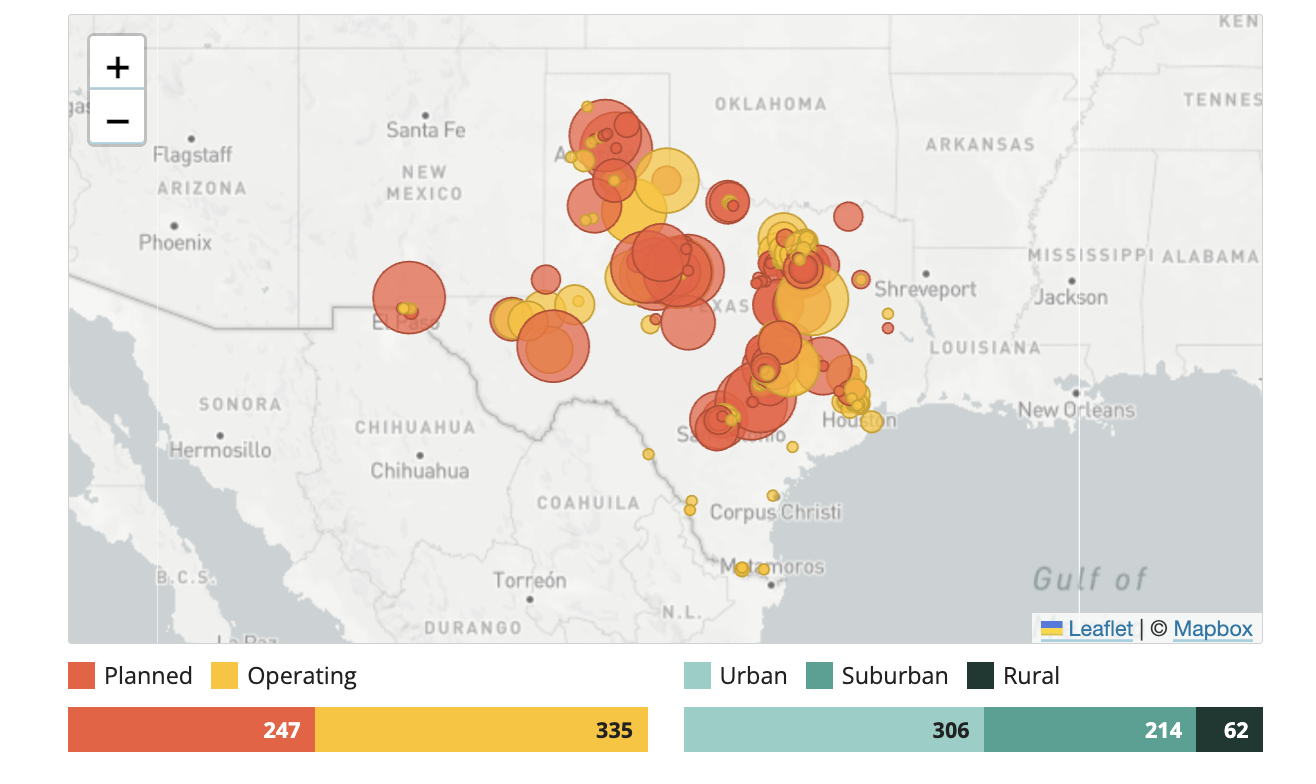
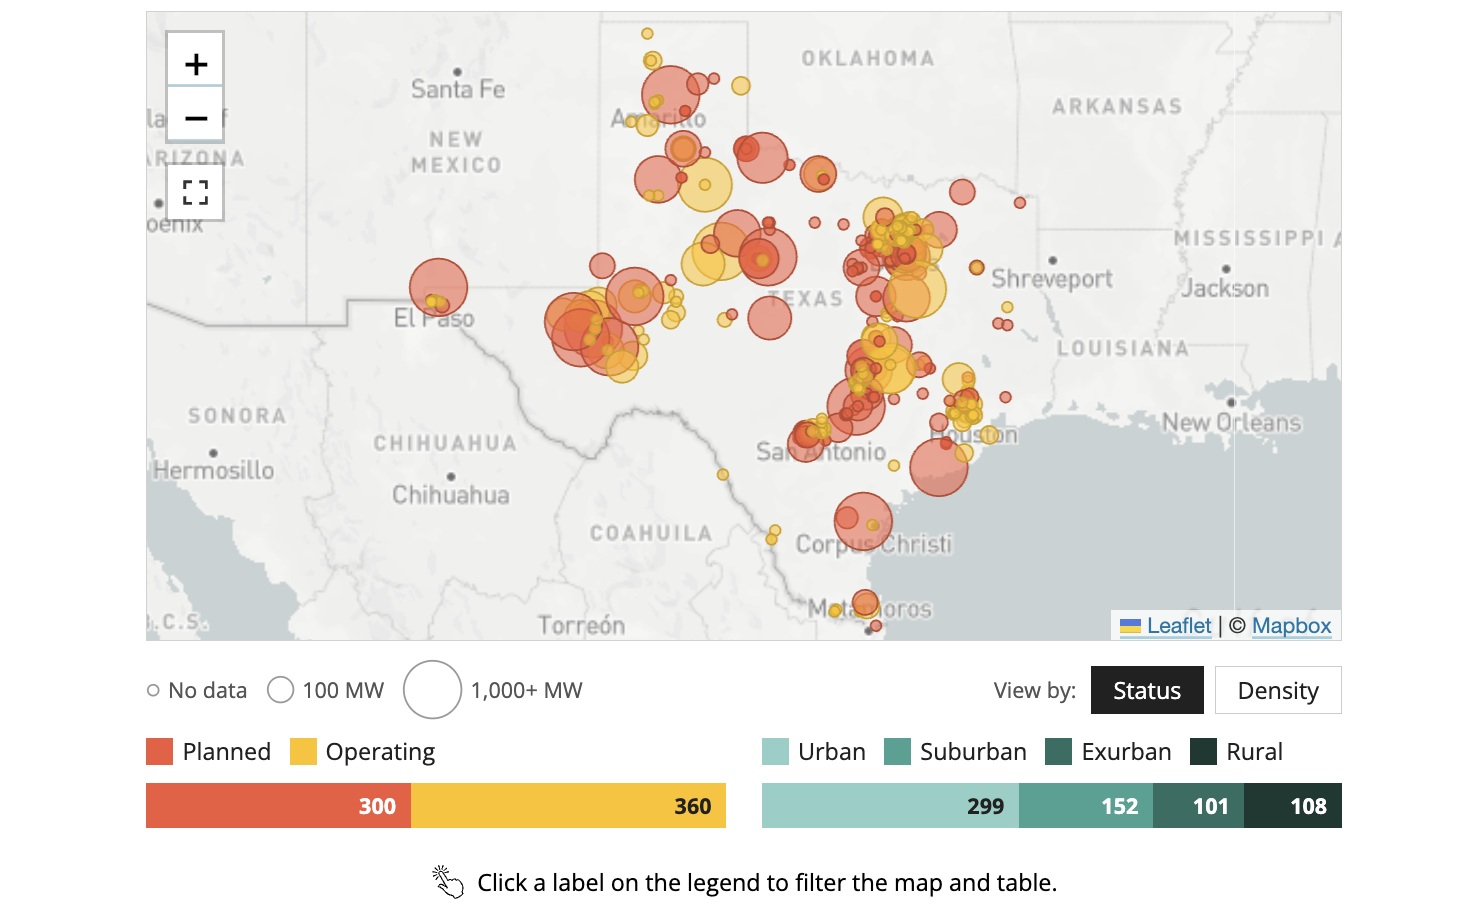
new dataviz added

diff --git a/src/routes/layout.css b/src/routes/layout.css
@@ -222,7 +222,7 @@ h3 {
 	font-family: 'Rufina', serif;
 }
 
-@media only screen and (max-width: 768px) {
+@media only screen and (max-width: 700px) {
 	.viz-content {
 		margin-left: 0;
 		margin-right: 0;
